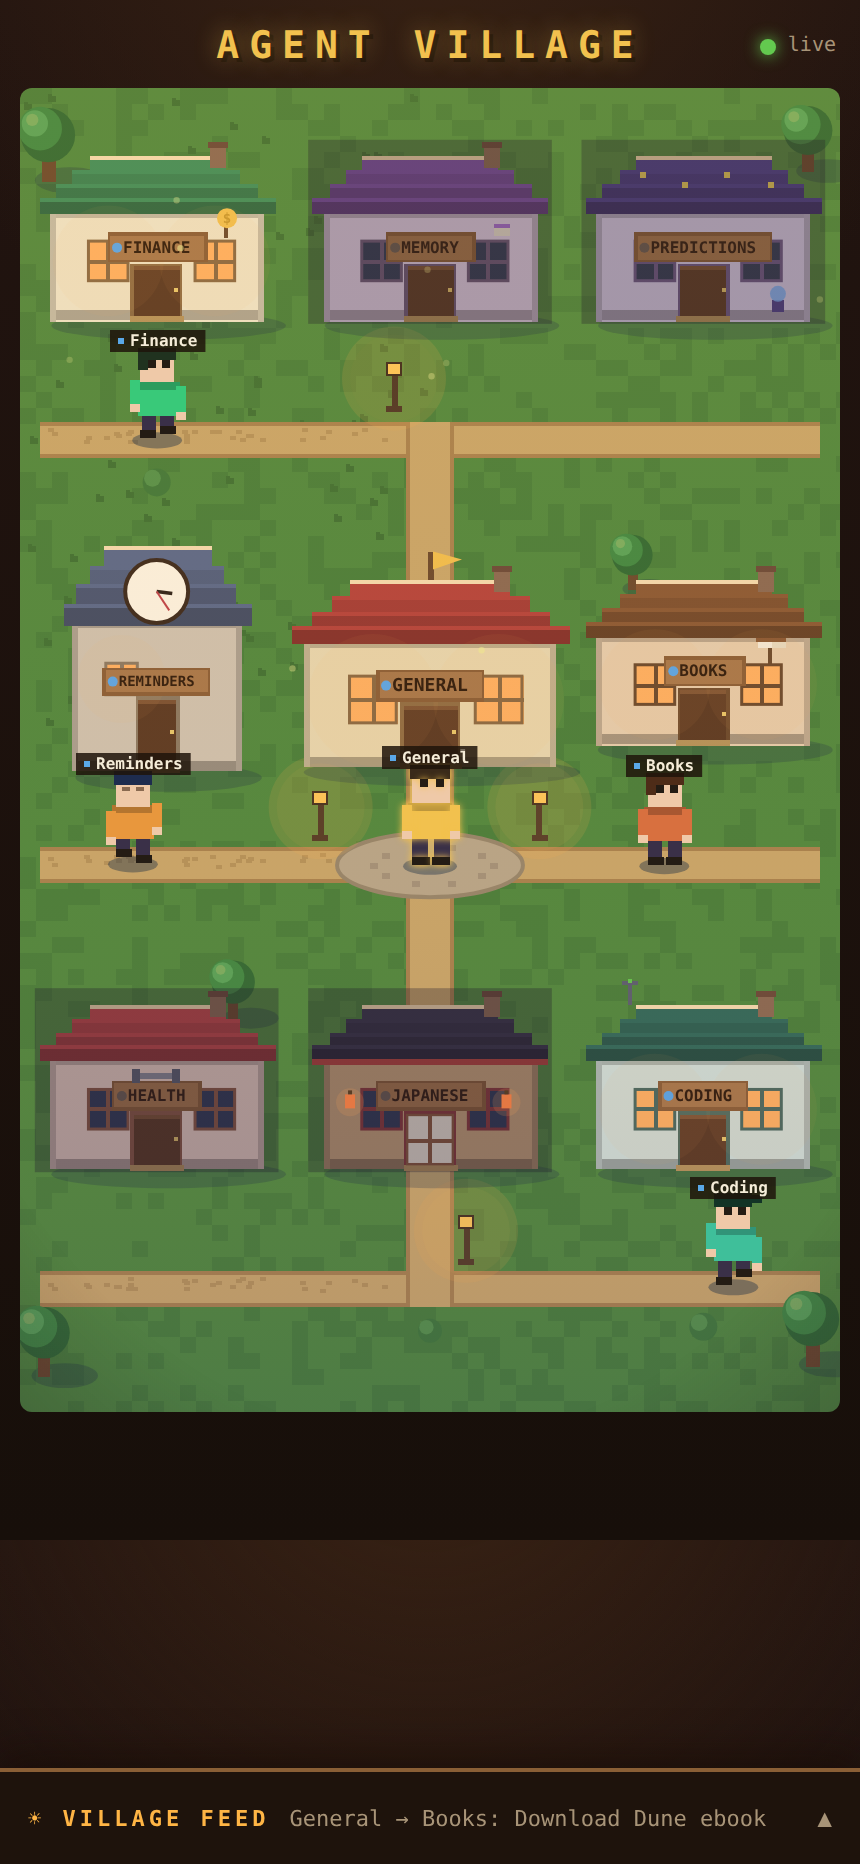
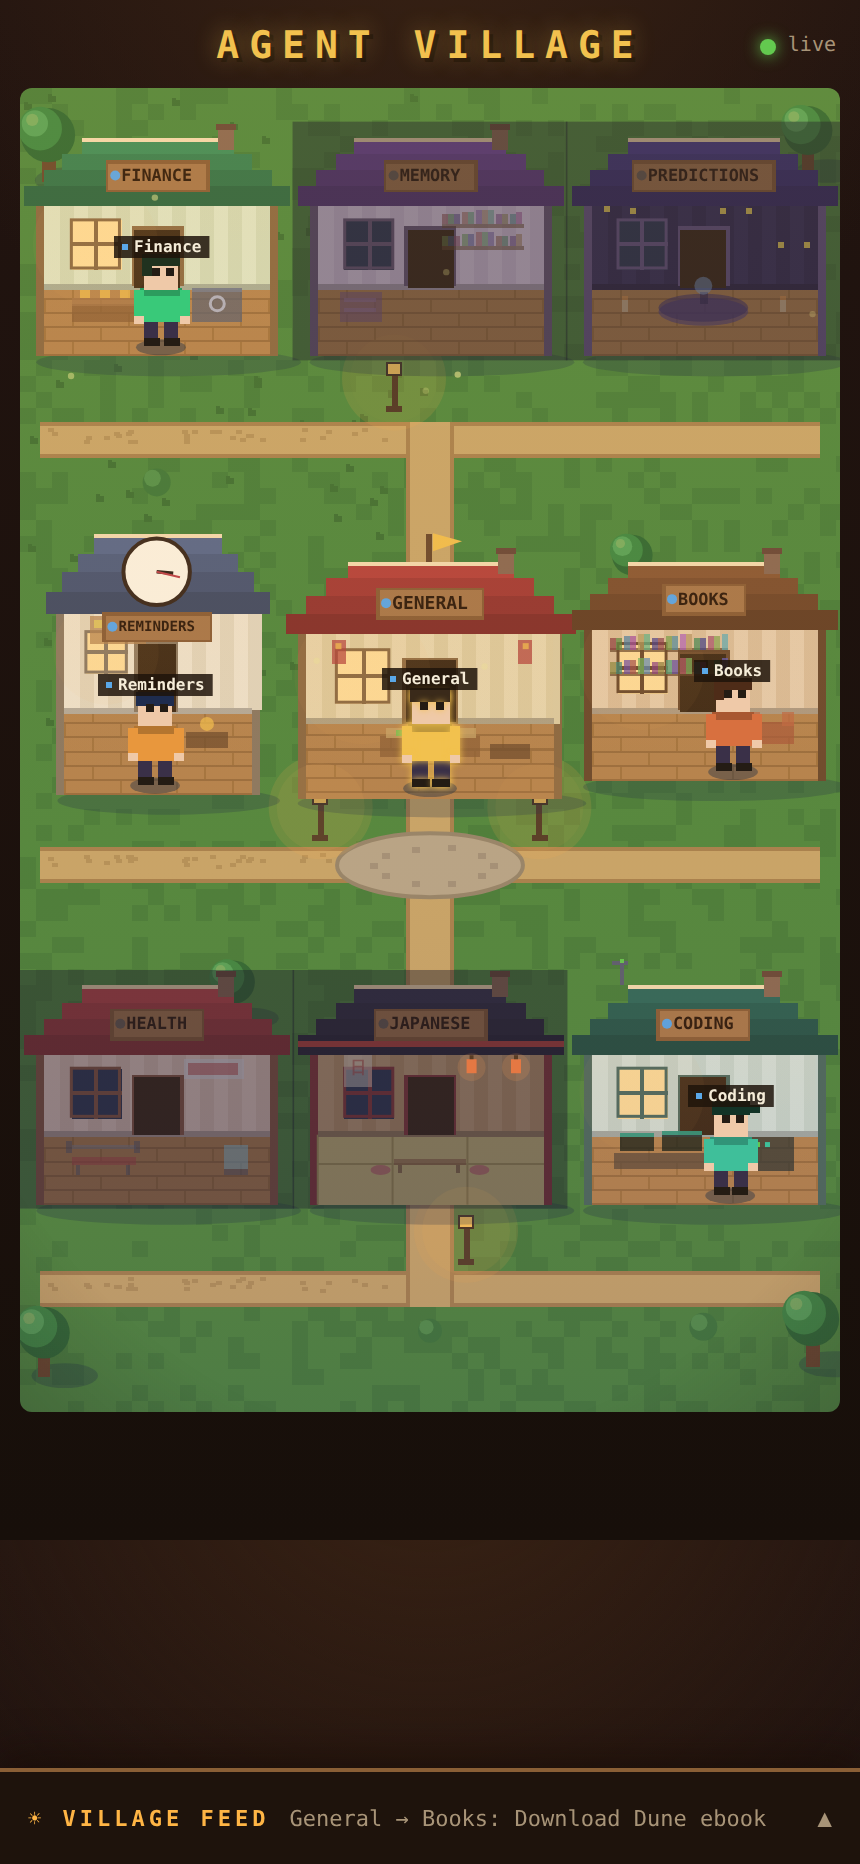
Cutaway house interiors: agents live inside their homes
- Houses are now dollhouse cutaways: themed wallpaper, wooden floorboards
  (tatami in the dojo), baseboards, back-wall door and lit window, warm
  interior light wash keyed to status
- Per-agent interiors: bank counter with coin stacks + safe, map table +
  banners in the hall, corkboard + bell desk in the clock tower, round
  seance table with orb + candles, shelf walls in library/bookshop with an
  armchair, weight bench + rack + water cooler gym, low table + scroll +
  cushions dojo, dual-monitor battlestation + blinking server rack
- Agents wander INSIDE their houses; General exits through his door, walks
  the streets, and enters the target house to deliver the task bubble
- Ambient anchors moved indoors (orb sparkle, lantern sway, server LEDs)

Changed region(s): [[0.0, 0.4979, 0.9674, 0.7157], [0.0302, 0.0622, 0.9977, 0.2489], [0.0605, 0.28, 0.9674, 0.4667]]

diff --git a/index.html b/index.html
@@ -165,14 +165,17 @@ function layout(){
   houses={};
   AGENTS.forEach(a=>{
     const cx0=a.col*cellW, cy0=mapTop+a.row*cellH;
-    let hw=cellW*0.78, hh=cellW*0.60, extra=0;
-    if(a.id==='general'){hw=cellW*0.92;hh=cellW*0.68;}
-    if(a.id==='reminders'){hw=cellW*0.62;hh=cellW*0.82;extra=-cellW*0.10;}
-    const x=cx0+(cellW-hw)/2, y=cy0+cellH*0.10+extra+ (a.id==='reminders'?0:cellW*0.02);
+    let hw=cellW*0.88, hh=cellW*0.80, extra=0;
+    if(a.id==='general'){hw=cellW*0.96;hh=cellW*0.86;}
+    if(a.id==='reminders'){hw=cellW*0.74;hh=cellW*0.95;extra=-cellW*0.10;}
+    const x=cx0+(cellW-hw)/2, y=cy0+cellH*0.07+extra;
     const doorX=x+hw/2, streetY=rowStreetY(a.row);
+    // cutaway interior: side frames 4px, roof band takes top ~28% of h
+    const intX=x+4, intW=hw-8, wallTop=y+hh*0.28, floorY=y+hh-6;
     houses[a.id]={x,y,w:hw,h:hh,doorX,doorY:y+hh,streetY,
       cx:doorX, cell:{x:cx0,y:cy0,w:cellW,h:cellH},
-      walkMin:cx0+cellW*0.14,walkMax:cx0+cellW*0.86,
+      intX,intW,wallTop,floorY,
+      walkMin:intX+intW*0.10,walkMax:intX+intW*0.90,
       chimX:x+hw*0.78,chimY:y+2};
   });
   drawBackground();
@@ -267,110 +270,172 @@ function drawDecor(){
   lamp(W/2-18,rowStreetY(0)-16);lamp(W/2+18,rowStreetY(2)-14);
 }
 
-/* ---------- houses ---------- */
+/* ---------- houses: cutaway interiors ---------- */
+const WALLPAPER={
+  general:['#e8d9b0','#ddcda0'], finance:['#dfe8c8','#d2dcb8'], memory:['#e4d6ee','#d8c8e4'],
+  reminders:['#efe6d0','#e2d8be'], predictions:['#3a3560','#332e55'], books:['#e6cfae','#dabf9a'],
+  health:['#eed6c8','#e2c8b8'], japanese:['#caa87a','#bd9a6c'], coding:['#d4e4dc','#c6d8ce'],
+};
 function drawHouse(a){
   const hR=houses[a.id], th=THEME[a.id], st=(byId[a.id]&&byId[a.id].status)||'offline';
   const lit=litFactor(st);
-  const {x,y,w,h}=hR, u=w/14;
+  const {x,y,w,h,intX,intW,wallTop,floorY}=hR, u=w/14;
   // evening shadow
   bctx.fillStyle='rgba(25,45,70,.25)';bctx.beginPath();
   bctx.ellipse(x+w/2+6,y+h+3,w*0.55,7,0,0,7);bctx.fill();
-  // walls
-  R(bctx,x,y+h*0.34,w,h*0.66,th.wall);
-  R(bctx,x,y+h*0.34,w,3,dim(th.wall,0.8));
-  R(bctx,x,y+h-5,w,5,dim(th.wall,0.72)); // base trim
-  R(bctx,x,y+h*0.34,2.5,h*0.66,dim(th.wall,0.82));R(bctx,x+w-2.5,y+h*0.34,2.5,h*0.66,dim(th.wall,0.82));
-  // stepped roof
-  const steps=4, rh=h*0.34/steps;
+  // outer timber frame
+  R(bctx,x,wallTop-3,w,h-(wallTop-y)+3,th.trim);
+  // ---- interior ----
+  const wp=WALLPAPER[a.id]||['#e8d9b0','#ddcda0'];
+  const floorTop=y+h*0.68;
+  // wallpaper with vertical stripes
+  R(bctx,intX,wallTop,intW,floorTop-wallTop,wp[0]);
+  for(let sx2=intX+8;sx2<intX+intW;sx2+=14)R(bctx,sx2,wallTop,7,floorTop-wallTop,wp[1]);
+  if(a.id==='predictions')for(let i=0;i<8;i++)R(bctx,intX+6+(i*29)%(intW-10),wallTop+4+(i*17)%(floorTop-wallTop-10),2.5,2.5,'#e8d05a');
+  // floorboards (tatami for japanese)
+  if(a.id==='japanese'){
+    R(bctx,intX,floorTop,intW,floorY-floorTop+6,'#cdbf7a');
+    bctx.strokeStyle='#a89a58';bctx.lineWidth=1;
+    for(let gx=intX;gx<intX+intW;gx+=intW/3){bctx.beginPath();bctx.moveTo(gx,floorTop);bctx.lineTo(gx,floorY+6);bctx.stroke();}
+    R(bctx,intX,floorTop+(floorY-floorTop)/2,intW,1,'#a89a58');
+  } else {
+    R(bctx,intX,floorTop,intW,floorY-floorTop+6,'#b5854e');
+    for(let gy=floorTop+6;gy<floorY+6;gy+=7){R(bctx,intX,gy,intW,1,'#9a6f3e');
+      for(let gx=intX+((gy/7|0)%2)*14;gx<intX+intW;gx+=28)R(bctx,gx,gy-6,1,6,'#a3763f');}
+  }
+  R(bctx,intX,floorTop-1.5,intW,3,dim(wp[0],0.75)); // baseboard
+  // back-wall door (dark opening)
+  const ddw=u*2.6, ddx=hR.doorX-ddw/2;
+  R(bctx,ddx-1.5,floorTop-h*0.26-1.5,ddw+3,h*0.26+1.5,th.trim);
+  R(bctx,ddx,floorTop-h*0.26,ddw,h*0.26,'#3a2814');
+  // back-wall window, lit by status
+  const ww=u*2.8, wwy=wallTop+(floorTop-wallTop)*0.24, wwx=intX+intW*0.12;
+  if(lit>0.3){
+    bctx.fillStyle=`rgba(255,190,90,${0.10*lit})`;bctx.beginPath();bctx.arc(wwx+ww/2,wwy+ww/2,ww*1.3,0,7);bctx.fill();
+    R(bctx,wwx,wwy,ww,ww,'#ffdf9a');
+  } else R(bctx,wwx,wwy,ww,ww,'#2c3a55');
+  bctx.strokeStyle=th.trim;bctx.lineWidth=1.5;bctx.strokeRect(wwx,wwy,ww,ww);
+  R(bctx,wwx+ww/2-0.7,wwy,1.4,ww,th.trim);R(bctx,wwx,wwy+ww/2-0.7,ww,1.4,th.trim);
+  // interior warm light wash
+  if(lit>0.3){const g=bctx.createLinearGradient(0,wallTop,0,floorY);
+    g.addColorStop(0,`rgba(255,200,110,${0.10*lit})`);g.addColorStop(1,'rgba(255,200,110,0)');
+    bctx.fillStyle=g;bctx.fillRect(intX,wallTop,intW,floorY-wallTop);}
+  drawInterior(a,hR,th,u,lit,floorTop);
+  // ---- roof band on top ----
+  const steps=4, rh=(wallTop-y)/steps+0.5;
   for(let i=0;i<steps;i++){
     const shrink=(steps-1-i)*u*1.1;
-    R(bctx,x-u*0.7+shrink,y+i*rh,w+u*1.4-shrink*2,rh+1,i===0?dim(th.roof,1):dim(th.roof,1-0.09*i));
-    R(bctx,x-u*0.7+shrink,y+i*rh,w+u*1.4-shrink*2,1.5,dim(th.roof,1.15>1?1:1));
+    R(bctx,x-u*0.7+shrink,y+i*rh,w+u*1.4-shrink*2,rh+1,dim(th.roof,1-0.09*i));
   }
-  R(bctx,x-u*0.7+(steps-1)*u*1.1,y,w+u*1.4-(steps-1)*u*2.2,2,'#f5ddb0'); // ridge glint
+  R(bctx,x-u*0.7+(steps-1)*u*1.1,y,w+u*1.4-(steps-1)*u*2.2,2,'#f5ddb0');
+  if(a.id==='japanese')R(bctx,x-u*0.7,wallTop-3,w+u*1.4,3,'#b5443c');
   // chimney
   if(a.id!=='reminders'&&a.id!=='predictions'){
     R(bctx,hR.chimX-3,y-6,8,12,'#8a6a52');R(bctx,hR.chimX-4,y-7,10,3,'#6a4a38');
   }
-  // door
-  const dw=u*3, dh=h*0.30, dx=hR.doorX-dw/2, dy=y+h-dh-2;
-  R(bctx,dx-1.5,dy-1.5,dw+3,dh+3,th.trim);
-  R(bctx,dx,dy,dw,dh,'#5a3a22');R(bctx,dx,dy,dw,2,'#7a5232');
-  R(bctx,dx+dw-2.5,dy+dh*0.45,1.8,1.8,'#e8c96a');
-  R(bctx,dx-2,dy+dh,dw+4,2.5,'#b5945a'); // step
-  // windows (lit by status)
-  const wy=y+h*0.52, ww=u*2.6, whh=u*2.6;
-  for(const wxf of (w>cellW*0.7?[0.18,0.68]:[0.2])){
-    const wx=x+w*wxf;
-    if(lit>0.3){
-      bctx.fillStyle=`rgba(255,190,90,${0.12*lit})`;bctx.beginPath();bctx.arc(wx+ww/2,wy+whh/2,ww*1.4,0,7);bctx.fill();
-      R(bctx,wx,wy,ww,whh,`rgb(255,${200-40*(1-lit)|0},${120-40*(1-lit)|0})`);
-    } else R(bctx,wx,wy,ww,whh,'#2c3a55');
-    bctx.strokeStyle=th.trim;bctx.lineWidth=1.5;bctx.strokeRect(wx,wy,ww,whh);
-    R(bctx,wx+ww/2-0.7,wy,1.4,whh,th.trim);R(bctx,wx,wy+whh/2-0.7,ww,1.4,th.trim);
+  // rooftop extras
+  if(a.id==='general'){
+    R(bctx,x+w*0.5-1.5,y-14,3,14,'#6a4a2c');
+    bctx.fillStyle='#f2c14e';bctx.beginPath();bctx.moveTo(x+w*0.5+1.5,y-14);
+    bctx.lineTo(x+w*0.5+16,y-10);bctx.lineTo(x+w*0.5+1.5,y-5);bctx.closePath();bctx.fill();
   }
-  // name sign
-  const label=a.name.toUpperCase(), fs=Math.max(7,Math.min(9,w*0.075));
+  if(a.id==='coding'){
+    R(bctx,x+w*0.15,y-10,2,10,'#5a6070');R(bctx,x+w*0.12,y-12,8,2,'#5a6070');
+    R(bctx,x+w*0.15,y-13,2,2,'#63c94f');
+  }
+  if(a.id==='reminders'){ // tower clock sits on the roof band
+    bctx.fillStyle='#fdf6e3';bctx.beginPath();bctx.arc(hR.doorX,y+(wallTop-y)*0.52,u*2.3,0,7);bctx.fill();
+    bctx.strokeStyle='#3a2a1c';bctx.lineWidth=2;bctx.beginPath();bctx.arc(hR.doorX,y+(wallTop-y)*0.52,u*2.3,0,7);bctx.stroke();
+    houses[a.id].clockX=hR.doorX;houses[a.id].clockY=y+(wallTop-y)*0.52;houses[a.id].clockR=u*2.3;
+  }
+  // name sign on roof front
+  const label=a.name.toUpperCase(), fs=Math.max(7,Math.min(9,w*0.07));
   bctx.font=`800 ${fs}px ui-monospace,monospace`;
-  const tw=bctx.measureText(label).width, sw=tw+16, sx=hR.doorX-sw/2, sy=dy-fs-9;
-  R(bctx,sx,sy,sw,fs+7,'#8a5f36');R(bctx,sx+1.5,sy+1.5,sw-3,fs+4,'#a8794a');
-  bctx.fillStyle='#2e1c0c';bctx.textAlign='center';bctx.textBaseline='middle';
-  bctx.fillText(label,hR.doorX,sy+(fs+7)/2+0.5);
-  bctx.fillStyle=DOT_HEX[st];bctx.beginPath();bctx.arc(sx+5,sy+(fs+7)/2,2.5,0,7);bctx.fill();
-  drawHouseExtras(a,hR,th,u,lit);
-  if(lit<0.3){bctx.fillStyle='rgba(15,18,40,.30)';bctx.fillRect(x-u,y-8,w+2*u,h+10);}
+  const tw=bctx.measureText(label).width, sw=tw+16, sx=hR.doorX-sw/2, sy=wallTop-3-(fs+8);
+  if(a.id!=='reminders'){
+    R(bctx,sx,sy,sw,fs+7,'#8a5f36');R(bctx,sx+1.5,sy+1.5,sw-3,fs+4,'#a8794a');
+    bctx.fillStyle='#2e1c0c';bctx.textAlign='center';bctx.textBaseline='middle';
+    bctx.fillText(label,hR.doorX,sy+(fs+7)/2+0.5);
+    bctx.fillStyle=DOT_HEX[st];bctx.beginPath();bctx.arc(sx+5,sy+(fs+7)/2,2.5,0,7);bctx.fill();
+  } else { // tower: sign below clock on wall
+    const sy2=wallTop+3;
+    R(bctx,sx,sy2,sw,fs+7,'#8a5f36');R(bctx,sx+1.5,sy2+1.5,sw-3,fs+4,'#a8794a');
+    bctx.fillStyle='#2e1c0c';bctx.textAlign='center';bctx.textBaseline='middle';
+    bctx.fillText(label,hR.doorX,sy2+(fs+7)/2+0.5);
+    bctx.fillStyle=DOT_HEX[st];bctx.beginPath();bctx.arc(sx+5,sy2+(fs+7)/2,2.5,0,7);bctx.fill();
+  }
+  if(lit<0.3){bctx.fillStyle='rgba(15,18,40,.42)';bctx.fillRect(x-u,y-8,w+2*u,h+10);}
 }
 
-function drawHouseExtras(a,hR,th,u,lit){
-  const {x,y,w,h}=hR;
+/* per-agent interior furniture (drawn between wallpaper and characters) */
+function drawInterior(a,hR,th,u,lit,floorTop){
+  const {intX,intW,floorY}=hR, y=hR.y, h=hR.h;
+  const midY=floorTop+ (floorY-floorTop)*0.30; // stand-line for furniture
+  bctx.save();bctx.globalAlpha=0.5+0.5*lit;
   switch(a.id){
-    case 'general':{ // hall: flag + banner
-      R(bctx,x+w*0.5-1.5,y-14,3,14,'#6a4a2c');
-      bctx.fillStyle='#f2c14e';bctx.beginPath();bctx.moveTo(x+w*0.5+1.5,y-14);
-      bctx.lineTo(x+w*0.5+16,y-10);bctx.lineTo(x+w*0.5+1.5,y-5);bctx.closePath();bctx.fill();
+    case 'general':{ // map table + banners + desk
+      R(bctx,intX+intW*0.30,midY-2,intW*0.40,10,'#8a5f36');R(bctx,intX+intW*0.32,midY-6,intW*0.36,5,'#c9a86a');
+      R(bctx,intX+intW*0.36,midY-5,intW*0.10,3,'#63c94f');R(bctx,intX+intW*0.52,midY-4,intW*0.08,2.5,'#5aa8e8');
+      for(const bxf of [0.10,0.86]){R(bctx,intX+intW*bxf,wallTopOf(hR)+6,7,12,'#b5443c');
+        bctx.fillStyle='#f2c14e';bctx.fillRect(intX+intW*bxf+2,wallTopOf(hR)+8,3,3);}
+      R(bctx,intX+intW*0.74,midY+2,intW*0.16,7,'#6a4a2c'); // side desk
       break;}
-    case 'finance':{ // coin sign
-      R(bctx,x+w*0.82,y+h*0.40,2,8,'#6a4a2c');
-      bctx.fillStyle='#f2c14e';bctx.beginPath();bctx.arc(x+w*0.83,y+h*0.38,5,0,7);bctx.fill();
-      bctx.fillStyle='#c99a2e';bctx.font='800 7px monospace';bctx.textAlign='center';bctx.fillText('$',x+w*0.83,y+h*0.39);
+    case 'finance':{ // counter + coin stacks + safe
+      R(bctx,intX+intW*0.12,midY,intW*0.36,9,'#8a5f36');R(bctx,intX+intW*0.12,midY-3,intW*0.36,4,'#a8794a');
+      for(let i=0;i<3;i++)R(bctx,intX+intW*(0.16+i*0.09),midY-7,5,4,'#f2c14e');
+      R(bctx,intX+intW*0.66,midY-8,intW*0.22,17,'#5a6070');R(bctx,intX+intW*0.66,midY-8,intW*0.22,2,'#7a8290');
+      bctx.strokeStyle='#c9cede';bctx.lineWidth=1.5;bctx.beginPath();bctx.arc(intX+intW*0.77,midY,3.5,0,7);bctx.stroke();
       break;}
-    case 'memory':{ // scroll sign
-      R(bctx,x+w*0.80,y+h*0.42,8,6,'#f0ead8');R(bctx,x+w*0.80,y+h*0.42,8,1.5,'#a86fd8');
+    case 'memory':{ // shelf wall + cabinet
+      for(let ri=0;ri<2;ri++){const yy=wallTopOf(hR)+5+ri*11;R(bctx,intX+intW*0.55,yy+8,intW*0.36,1.5,'#6a4a2c');
+        let bx=0;while(bx<intW*0.34){const bw2=2.5,bh2=5+((bx|0)%3);R(bctx,intX+intW*0.55+bx,yy+8-bh2,bw2,bh2,`hsl(${(bx*37+ri*90)%360},32%,${42+((bx|0)%3)*6}%)`);bx+=3.4;}}
+      R(bctx,intX+intW*0.10,midY-6,intW*0.18,15,'#7a5a8a');R(bctx,intX+intW*0.12,midY-3,intW*0.14,2,'#9a7aa8');R(bctx,intX+intW*0.12,midY+2,intW*0.14,2,'#9a7aa8');
       break;}
-    case 'reminders':{ // clock face near roof (hands animated in fg)
-      bctx.fillStyle='#fdf6e3';bctx.beginPath();bctx.arc(hR.doorX,y+h*0.20,u*2.6,0,7);bctx.fill();
-      bctx.strokeStyle='#3a2a1c';bctx.lineWidth=2;bctx.beginPath();bctx.arc(hR.doorX,y+h*0.20,u*2.6,0,7);bctx.stroke();
-      houses[a.id].clockX=hR.doorX;houses[a.id].clockY=y+h*0.20;houses[a.id].clockR=u*2.6;
+    case 'reminders':{ // corkboard + bell + desk
+      R(bctx,intX+intW*0.14,wallTopOf(hR)+5,intW*0.30,14,'#b5854e');
+      R(bctx,intX+intW*0.16,wallTopOf(hR)+7,5,4,'#e8d05a');R(bctx,intX+intW*0.26,wallTopOf(hR)+8,5,4,'#e06a9a');R(bctx,intX+intW*0.34,wallTopOf(hR)+6,5,4,'#8fd8f0');
+      R(bctx,intX+intW*0.66,midY,intW*0.22,8,'#6a4a2c');
+      bctx.fillStyle='#f2c14e';bctx.beginPath();bctx.arc(intX+intW*0.77,midY-4,3.5,0,7);bctx.fill();
       break;}
-    case 'predictions':{ // stars on roof + orb on porch
-      for(let i=0;i<4;i++)R(bctx,x+w*(0.2+i*0.2),y+h*0.1+((i%2)*5),2.5,2.5,'#e8d05a');
-      R(bctx,x+w*0.82,y+h-10,6,6,'#4a3f8f');
-      bctx.fillStyle='rgba(120,180,255,.85)';bctx.beginPath();bctx.arc(x+w*0.85,y+h-13,4,0,7);bctx.fill();
+    case 'predictions':{ // round table + orb + candles
+      bctx.fillStyle='#4a3f8f';bctx.beginPath();bctx.ellipse(hR.doorX,midY+4,intW*0.20,7,0,0,7);bctx.fill();
+      bctx.fillStyle='#3a3172';bctx.beginPath();bctx.ellipse(hR.doorX,midY+2,intW*0.20,7,0,0,7);bctx.fill();
+      R(bctx,hR.doorX-2,midY-6,4,6,'#2c2650');
+      bctx.fillStyle='rgba(140,190,255,.85)';bctx.beginPath();bctx.arc(hR.doorX,midY-9,4.5,0,7);bctx.fill();
+      houses[a.id].orbX=hR.doorX;houses[a.id].orbY=midY-9;
+      for(const cxf of [0.14,0.84]){R(bctx,intX+intW*cxf,midY-2,2.5,6,'#e8dcc0');R(bctx,intX+intW*cxf,midY-4,2.5,2,'#f2a14e');}
       break;}
-    case 'books':{ // open book sign
-      R(bctx,x+w*0.80,y+h*0.40,2,9,'#6a4a2c');
-      R(bctx,x+w*0.755,y+h*0.36,7,5,'#f5ecd8');R(bctx,x+w*0.825,y+h*0.36,7,5,'#e8dcc0');
-      R(bctx,x+w*0.75,y+h*0.36,14.5,1.2,'#8a5a34');
+    case 'books':{ // full shelves + armchair
+      for(let ri=0;ri<2;ri++){const yy=wallTopOf(hR)+4+ri*12;R(bctx,intX+intW*0.08,yy+9,intW*0.52,1.5,'#6a4a2c');
+        let bx=0;while(bx<intW*0.50){const bh2=5.5+((bx|0)%3);R(bctx,intX+intW*0.08+bx,yy+9-bh2,2.6,bh2,`hsl(${(bx*29+ri*60)%360},36%,${40+((bx|0)%3)*7}%)`);bx+=3.5;}}
+      R(bctx,intX+intW*0.70,midY-3,intW*0.20,11,'#a85a3a');R(bctx,intX+intW*0.70,midY-8,intW*0.05,7,'#c06a44');R(bctx,intX+intW*0.85,midY-8,intW*0.05,7,'#c06a44');
       break;}
-    case 'health':{ // barbell over door
-      const bx=hR.doorX, byy=y+h*0.42;
-      R(bctx,bx-9,byy,18,2.5,'#8a8f9a');R(bctx,bx-12,byy-2,4,7,'#5a6070');R(bctx,bx+8,byy-2,4,7,'#5a6070');
+    case 'health':{ // bench + rack + cooler
+      R(bctx,intX+intW*0.12,midY+2,intW*0.28,4,'#c04848');R(bctx,intX+intW*0.14,midY+6,2,5,'#5a6070');R(bctx,intX+intW*0.36,midY+6,2,5,'#5a6070');
+      R(bctx,intX+intW*0.12,midY-4,intW*0.28,2,'#8a8f9a');R(bctx,intX+intW*0.10,midY-6,3,6,'#5a6070');R(bctx,intX+intW*0.40,midY-6,3,6,'#5a6070');
+      R(bctx,intX+intW*0.62,wallTopOf(hR)+6,intW*0.26,10,'#e2e8f0');R(bctx,intX+intW*0.64,wallTopOf(hR)+8,intW*0.22,6,'#c04848'); // poster
+      R(bctx,intX+intW*0.80,midY-4,intW*0.10,12,'#8fd8f0');R(bctx,intX+intW*0.80,midY+8,intW*0.10,3,'#5a6070');
       break;}
-    case 'japanese':{ // red ridge + lanterns anchors
-      R(bctx,x-u*0.7,y+h*0.335,w+u*1.4,3,'#b5443c');
-      houses[a.id].lanY=y+h*0.55;houses[a.id].lanL=x+w*0.12;houses[a.id].lanR=x+w*0.84;
-      // shoji door grid
-      const dw=u*3, dx=hR.doorX-dw/2, dy=y+h-h*0.30-2;
-      R(bctx,dx,dy,dw,h*0.30,'#f0ead8');
-      bctx.strokeStyle='#8a5a3a';bctx.lineWidth=1.2;bctx.strokeRect(dx,dy,dw,h*0.30);
-      R(bctx,dx+dw/2-0.6,dy,1.2,h*0.30,'#8a5a3a');R(bctx,dx,dy+h*0.15-0.6,dw,1.2,'#8a5a3a');
+    case 'japanese':{ // low table + scroll + cushions (lanterns in fg)
+      R(bctx,intX+intW*0.34,midY+3,intW*0.32,3,'#8a5a3a');R(bctx,intX+intW*0.36,midY+6,2,4,'#5e3a22');R(bctx,intX+intW*0.62,midY+6,2,4,'#5e3a22');
+      R(bctx,intX+intW*0.12,wallTopOf(hR)+4,intW*0.12,16,'#f0ead8');
+      bctx.fillStyle='#b5443c';bctx.font='800 8px monospace';bctx.textAlign='center';bctx.fillText('日',intX+intW*0.18,wallTopOf(hR)+11);
+      bctx.fillStyle='#c04868';bctx.beginPath();bctx.ellipse(intX+intW*0.28,midY+9,5,2.5,0,0,7);bctx.fill();
+      bctx.fillStyle='#c04868';bctx.beginPath();bctx.ellipse(intX+intW*0.72,midY+9,5,2.5,0,0,7);bctx.fill();
+      houses[a.id].lanY=wallTopOf(hR)+6;houses[a.id].lanL=intX+intW*0.68;houses[a.id].lanR=intX+intW*0.88;
       break;}
-    case 'coding':{ // antenna + glowing window handled by lit; add dish
-      R(bctx,x+w*0.15,y-10,2,10,'#5a6070');R(bctx,x+w*0.12,y-12,8,2,'#5a6070');
-      R(bctx,x+w*0.15,y-13,2,2,'#63c94f');
+    case 'coding':{ // desk + dual monitors + server
+      R(bctx,intX+intW*0.10,midY,intW*0.44,8,'#5a4a38');
+      R(bctx,intX+intW*0.13,midY-10,intW*0.15,9,'#0a1a12');R(bctx,intX+intW*0.13,midY-10,intW*0.15,1.5,'#3fbf9a');
+      R(bctx,intX+intW*0.32,midY-11,intW*0.17,10,'#0a1a12');R(bctx,intX+intW*0.32,midY-11,intW*0.17,1.5,'#3fbf9a');
+      R(bctx,intX+intW*0.70,midY-8,intW*0.20,17,'#2a3530');
+      houses[a.id].ledX=intX+intW*0.73;houses[a.id].ledY=midY-5;
+      R(bctx,intX+intW*0.56,midY-2,4,4,'#e8dcc0'); // mug
       break;}
   }
+  bctx.restore();
 }
+function wallTopOf(hR){return hR.wallTop;}
 
 /* ============ actors ============ */
 const actors={};
@@ -447,11 +512,11 @@ function stepActor(a,o,dt){
 function planWalk(ev){
   const tH=houses[ev.to]; if(!tH)return false;
   const gH=houses.general, av=W/2;
-  const gRowY=gH.streetY, tRowY=tH.streetY;
-  walker.path = (gRowY===tRowY)
-    ? [{x:tH.doorX,y:tRowY}]
-    : [{x:av,y:gRowY},{x:av,y:tRowY},{x:tH.doorX,y:tRowY}];
-  walker.seg=0;walker.state='out';walker.task=ev;
+  // exit hall -> street -> avenue -> target street -> enter target house
+  const p=[{x:gH.doorX,y:gH.floorY},{x:gH.doorX,y:gH.streetY}];
+  if(gH.streetY!==tH.streetY){p.push({x:av,y:gH.streetY},{x:av,y:tH.streetY});}
+  p.push({x:tH.doorX,y:tH.streetY},{x:tH.doorX,y:tH.floorY});
+  walker.path=p;walker.seg=0;walker.state='out';walker.task=ev;
   return true;
 }
 function stepWalker(dt){
@@ -459,18 +524,18 @@ function stepWalker(dt){
   if(walker.state==='home'){
     const o=actors.general;
     stepActor({id:'general'},o,dt);
-    walker.x=o.x;walker.y=houses.general.streetY;
+    walker.x=o.x;walker.y=houses.general.floorY;
     if(walkQueue.length)planWalk(walkQueue.shift());
     return;
   }
   if(walker.state==='visit'){
     walker.t-=dt;
     if(walker.t<=0){
-      const gH=houses.general, av=W/2;
-      walker.path = (walker.y===gH.streetY)
-        ? [{x:gH.doorX,y:gH.streetY}]
-        : [{x:av,y:walker.y},{x:av,y:gH.streetY},{x:gH.doorX,y:gH.streetY}];
-      walker.seg=0;walker.state='back';
+      const gH=houses.general, av=W/2, tH=houses[walker.task.to];
+      const p=[{x:tH.doorX,y:tH.streetY}];
+      if(gH.streetY!==tH.streetY){p.push({x:av,y:tH.streetY},{x:av,y:gH.streetY});}
+      p.push({x:gH.doorX,y:gH.streetY},{x:gH.doorX,y:gH.floorY});
+      walker.path=p;walker.seg=0;walker.state='back';
     }
     return;
   }
@@ -525,12 +590,19 @@ function drawAmbient(t,dt){
       fctx.fillStyle='#3a2a1c';fctx.fillRect(lx+sw-1,jH.lanY-2,2,2);
       fctx.fillStyle='rgba(255,160,90,.16)';fctx.beginPath();fctx.arc(lx+sw,jH.lanY+4,7,0,7);fctx.fill();}
   }
-  // orb sparkle
+  // orb sparkle (inside Predictions)
   const pH=houses.predictions;
-  if(pH&&litFactor((byId.predictions||{}).status||'offline')>0.3){
+  if(pH&&pH.orbX&&litFactor((byId.predictions||{}).status||'offline')>0.3){
     const ang=t*2;
     fctx.fillStyle='rgba(190,220,255,.9)';
-    fctx.beginPath();fctx.arc(pH.x+pH.w*0.85+Math.cos(ang)*2.5,pH.y+pH.h-13+Math.sin(ang)*2,1.2,0,7);fctx.fill();
+    fctx.beginPath();fctx.arc(pH.orbX+Math.cos(ang)*3,pH.orbY+Math.sin(ang)*2.2,1.3,0,7);fctx.fill();
+  }
+  // server LED blink (inside Coding)
+  const cdH=houses.coding;
+  if(cdH&&cdH.ledX&&litFactor((byId.coding||{}).status||'offline')>0.3){
+    if(Math.sin(t*4)>0)fctx.fillStyle='#63c94f';else fctx.fillStyle='#e05555';
+    fctx.fillRect(cdH.ledX,cdH.ledY,2.5,2.5);
+    if(Math.sin(t*6+1)>0.2){fctx.fillStyle='#3fbf9a';fctx.fillRect(cdH.ledX+5,cdH.ledY,2.5,2.5);}
   }
   // lamp flicker pools
   LAMPS.forEach((L,i)=>{
@@ -563,8 +635,8 @@ function loop(ts){
     stepActor(a,o,dt);
     const walking=o.targetX!=null;
     const bob=walking?Math.abs(Math.sin(time*9+o.seed))*1.3:0;
-    drawChar(fctx,o.x,hR.streetY-bob,s,a.id,walking,time*11+o.seed,o.dir,st==='working',time,o.seed);
-    nameTag(fctx,o.x,hR.streetY-bob,s,a.name,DOT_HEX[st]);
+    drawChar(fctx,o.x,hR.floorY-bob,s,a.id,walking,time*11+o.seed,o.dir,st==='working',time,o.seed);
+    nameTag(fctx,o.x,hR.floorY-bob,s,a.name,DOT_HEX[st]);
   });
 
   stepWalker(dt);
